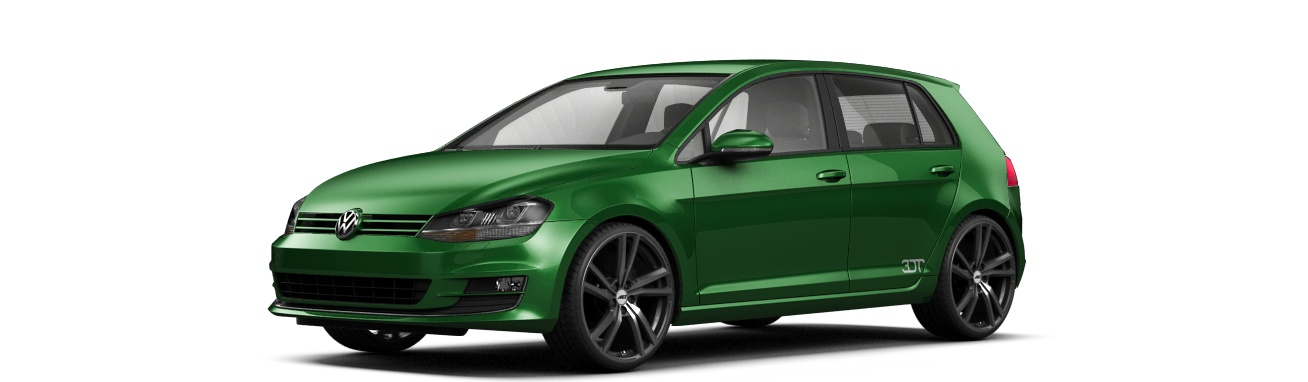
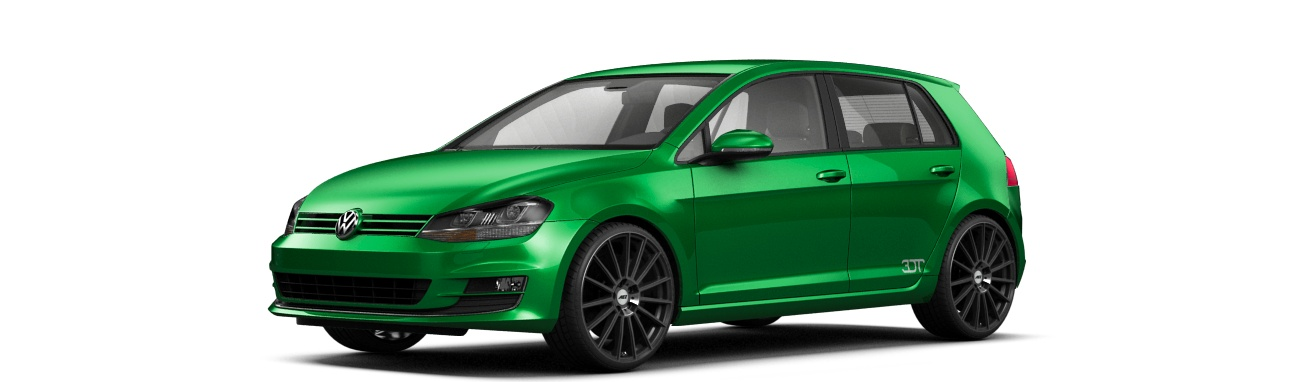
add new style for login and registration form. fixes bug with golf d1

Changed region(s): [[0.2141, 0.144, 0.7951, 0.9503], [0.2446, 0.8063, 0.3058, 0.8351], [0.2752, 0.8639, 0.3058, 0.8927]]

diff --git a/client/src/components/Login/Login.scss b/client/src/components/Login/Login.scss
@@ -1,0 +1,91 @@
+.form-wrapper{
+  width: 25vw;
+  display: flex;
+  flex-direction: column;
+  justify-content: center;
+}
+
+.login-box {
+  position: absolute;
+  top: 50%;
+  left: 50%;
+  width: 400px;
+  padding: 40px;
+  transform: translate(-50%, -50%);
+  background: rgba(0,0,0,.5);
+  box-sizing: border-box;
+  box-shadow: 0 15px 25px rgba(0,0,0,.6);
+  border-radius: 10px;
+  background-color: #333;
+}
+
+.login-box h2 {
+  margin: 0 0 30px;
+  padding: 0;
+  color: #e7e9ec;
+  text-align: center;
+}
+
+.login-box .user-box {
+  position: relative;
+}
+
+.login-box .user-box input {
+  width: 100%;
+  padding: 10px 0;
+  font-size: 16px;
+  color: #e7e9ec;
+  margin-bottom: 30px;
+  border: none;
+  border-bottom: 1px solid #e7e9ec;
+  outline: none;
+  background: transparent;
+}
+.login-box .user-box label {
+  position: absolute;
+  top:0;
+  left: 0;
+  padding: 10px 0;
+  font-size: 16px;
+  color: #fff;
+  pointer-events: none;
+  transition: .5s;
+}
+
+.login-box .user-box input:focus ~ label,
+.login-box .user-box input:valid ~ label {
+  top: -20px;
+  left: 0;
+  color: #e7e9ec;
+  font-size: 12px;
+}
+
+.login-box form button {
+  position: relative;
+  display: inline-block;
+  padding: 10px 20px;
+  color: #e7e9ec;
+  font-size: 16px;
+  text-decoration: none;
+  text-transform: uppercase;
+  overflow: hidden;
+  transition: .5s;
+  margin-top: 40px;
+  letter-spacing: 4px
+}
+
+.login-box button:hover {
+  background: #e7e9ec;
+  color: #333;
+  border-radius: 5px;
+  box-shadow: 0 0 5px #e7e9ec,
+              // 0 0 25px #e7e9ec,
+              // 0 0 50px #e7e9ec,
+              // 0 0 100px #e7e9ec;
+}
+
+.login-box button span {
+  position: absolute;
+  display: block;
+}
+

diff --git a/client/src/components/Register/Register.js b/client/src/components/Register/Register.js
@@ -26,20 +26,22 @@ function Register() {
 
 
   return (
-    <div className="form-wrapper">
+    <div class="login-box">
+      <h2>Login</h2>
       <form onSubmit={(e) => { handlerRegistration(e, username, email, password) }}>
-        <div className="mb-3">
-          <input onChange={(e) => { setUsername(e.target.value) }} value={username} placeholder="login" type="text" className="form-control" required />
+        <div class="user-box">
+          <input onChange={(e) => { setUsername(e.target.value) }} type="text" name="username" required />
+          <label>Username</label>
         </div>
-        <div className="mb-3">
-          <input onChange={(e) => { setEmail(e.target.value) }} value={email} placeholder="email" type="email" className="form-control" required />
+        <div class="user-box">
+          <input onChange={(e) => { setEmail(e.target.value) }} type="email" name="email" required />
+          <label>Email</label>
         </div>
-        <div className="mb-3">
-          <input onChange={(e) => { setPassword(e.target.value) }} value={password} placeholder="password" type="text" className="form-control" required />
+        <div class="user-box">
+          <input onChange={(e) => { setPassword(e.target.value) }} type="password" name="password" required />
+          <label>Password</label>
         </div>
-        <div className="mb-3">
-          <button className="btn btn-light btn-sm">Register</button>
-        </div>
+        <button className='btn'>Submit</button>
       </form>
     </div>
   )

diff --git a/client/src/components/Login/Login.js b/client/src/components/Login/Login.js
@@ -1,5 +1,5 @@
 import React from 'react'
-import './Login.css'
+import './Login.scss'
 import { useHistory } from 'react-router-dom'
 import { useState } from 'react';
 import { useDispatch } from 'react-redux'
@@ -22,22 +22,22 @@ function Login() {
     // setPassword('');
   };
   if (auth) {
-    // window.localStorage.setItem('auth', auth);
     history.push('/');
   }
 
   return (
-    <div className="form-wrapper">
+    <div class="login-box">
+      <h2>Login</h2>
       <form onSubmit={(e) => { handlerLogin(e, email, password) }}>
-        <div className="mb-3">
-          <input onChange={(e) => { setEmail(e.target.value) }} placeholder="email" type="email" className="form-control" required />
+        <div class="user-box">
+          <input onChange={(e) => { setEmail(e.target.value) }} type="email" name="email" required />
+          <label>Email</label>
         </div>
-        <div className="mb-3">
-          <input onChange={(e) => { setPassword(e.target.value) }} placeholder="password" type="text" className="form-control" required />
+        <div class="user-box">
+          <input onChange={(e) => { setPassword(e.target.value) }} type="password" name="password" required />
+          <label>Password</label>
         </div>
-        <div className="mb-3">
-          <button className="btn btn-light btn-sm">Login</button>
-        </div>
+        <button className='btn'>Submit</button>
       </form>
     </div>
   )

diff --git a/client/src/redux/initState.js b/client/src/redux/initState.js
@@ -20,9 +20,9 @@ const initState = {
     v: {
       g: {
         disks: ['d1', 'd2', 'd3'],
-        linkDisksSmall: ['', 'discs/g-d2-DEZENT-TA-SILVER-small.png', 'discs/g-d3-DOTZ-REVVO-DARK-small.png'],
-        linkDisksBig: ['', 'discs/g-d2-DEZENT-TA-SILVER-big.png', 'discs/g-d3-DOTZ-REVVO-DARK-big.png'],
-        nameDisks: ['', 'DEZENT TA SILVER', 'DOTZ REVVO DARK'],
+        linkDisksSmall: ['/discs/v-g-d1-AEZ-STEAM-small.png', 'discs/g-d2-DEZENT-TA-SILVER-small.png', 'discs/g-d3-DOTZ-REVVO-DARK-small.png'],
+        linkDisksBig: ['/discs/v-g-d1-AEZ-STEAM-big.png', 'discs/g-d2-DEZENT-TA-SILVER-big.png', 'discs/g-d3-DOTZ-REVVO-DARK-big.png'],
+        nameDisks: ['AEZ STEAM', 'DEZENT TA SILVER', 'DOTZ REVVO DARK'],
         color: ['g', 'b', 'r'],
         photoCount: 24
       }

diff --git a/client/src/components/UserZone/UserZone.js b/client/src/components/UserZone/UserZone.js
@@ -38,7 +38,7 @@ const UserZone = () => {
       <div>
       </div>
       {configurator ?
-        <div>
+        <div className='configurator-wrapper'>
           <React360 dir={currentConfig.path} numImages={currentConfig.numImages} />
           <button onClick={handlerCloseConfigurator} className='btn btn-danger'>Закрыть</button>
         </div>

diff --git a/client/src/components/UserZone/UserZone.scss b/client/src/components/UserZone/UserZone.scss
@@ -1,5 +1,9 @@
 @import url('https://fonts.googleapis.com/css?family=Roboto+Mono');
 
+.configurator-wrapper{
+  width: 90vw;
+}
+
 * {
   box-sizing: border-box;
   font-weight: normal;
